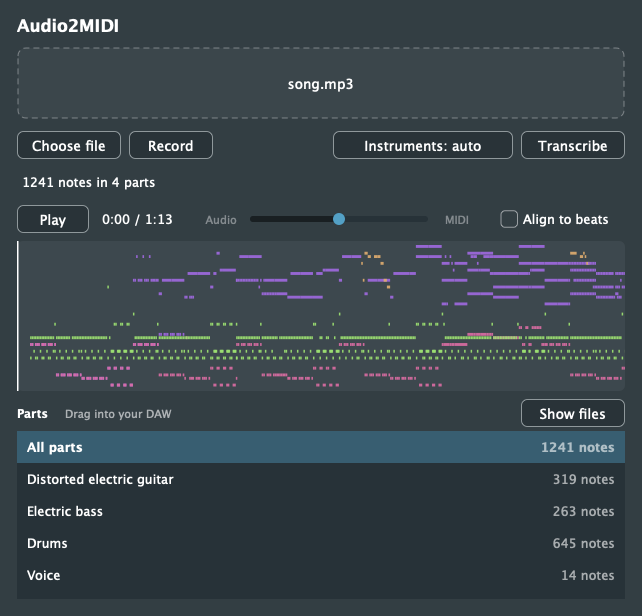
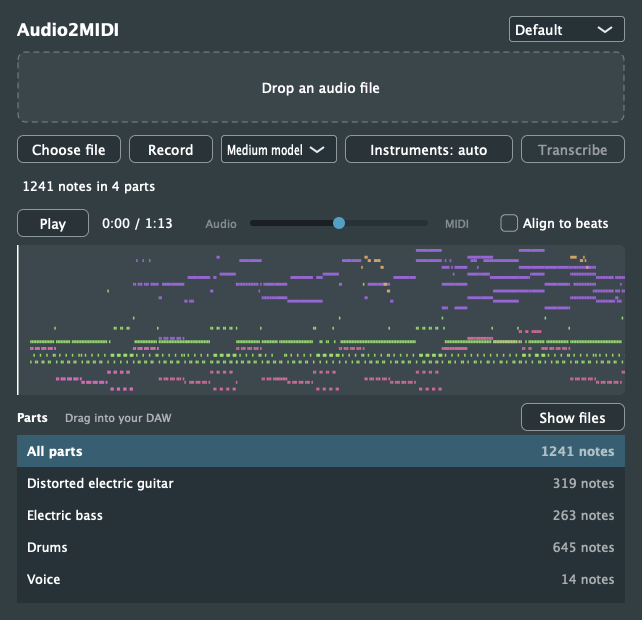
feat(ui): theme selector with Default and Graphite themes
Graphite is a near-black look with outlined rounded controls, card-style part rows and
pastel notes. The choice is a user preference, so it is stored once in
~/Library/Application Support/Audio2MIDI/Preferences.settings rather than per project.

diff --git a/src/PluginEditor.cpp b/src/PluginEditor.cpp
@@ -17,6 +17,8 @@ juce::String displayName (const juce::String& instrument)
     return spaced.substring (0, 1).toUpperCase() + spaced.substring (1);
 }
 
+const juce::StringArray themeNames { "Default", "Graphite" };
+
 bool isBusy (const a2m::Status& status)
 {
     return status.stage == a2m::Status::Stage::startingEngine || status.stage == a2m::Status::Stage::transcribing;
@@ -71,7 +73,8 @@ void PianoRoll::paint (juce::Graphics& g)
             const auto end = event->noteOffObject != nullptr ? event->noteOffObject->message.getTimeStamp() : start + 0.1;
             const auto x = secondsToX (start);
             // One colour per MIDI channel, which the engine assigns per instrument.
-            g.setColour (juce::Colour::fromHSV (std::fmod (0.58f + 0.17f * (float) note.getChannel(), 1.0f), 0.55f, 0.9f, 0.9f));
+            g.setColour (juce::Colour::fromHSV (std::fmod (0.58f + 0.17f * (float) note.getChannel(), 1.0f),
+                                                pastelNotes ? 0.38f : 0.55f, pastelNotes ? 0.92f : 0.9f, 0.9f));
             g.fillRect (x, area.getY() + rowHeight * (float) (high - note.getNoteNumber()),
                         juce::jmax (1.5f, secondsToX (end) - x), juce::jmax (1.0f, rowHeight - 0.5f));
         }
@@ -105,6 +108,35 @@ void PianoRoll::seekTo (float x)
     repaint();
 }
 
+GraphiteLookAndFeel::GraphiteLookAndFeel()
+    : juce::LookAndFeel_V4 ({ 0xff141414, 0xff1f1f1f, 0xff1c1c1c, 0xff353535, 0xfff2f2f2,
+                              0xffececec, 0xffffffff, 0xff2b2b2b, 0xfff2f2f2 })
+{
+    setColour (juce::TextButton::buttonColourId, juce::Colour (0xff1f1f1f));
+    setColour (juce::ComboBox::backgroundColourId, juce::Colour (0xff1f1f1f));
+    setColour (juce::ListBox::backgroundColourId, juce::Colour (0xff141414));
+    setColour (juce::TextEditor::highlightColourId, juce::Colour (0xff3d5f8a));
+    setColour (juce::Slider::trackColourId, juce::Colour (0xffececec));
+    setColour (juce::Slider::backgroundColourId, juce::Colour (0xff353535));
+    setColour (juce::ProgressBar::backgroundColourId, juce::Colour (0xff1f1f1f));
+    setColour (juce::ProgressBar::foregroundColourId, juce::Colour (0xff8db4e2));
+}
+
+void GraphiteLookAndFeel::drawButtonBackground (juce::Graphics& g, juce::Button& button, const juce::Colour& background,
+                                                bool highlighted, bool down)
+{
+    const auto bounds = button.getLocalBounds().toFloat().reduced (0.5f);
+    auto fill = background.withMultipliedAlpha (button.isEnabled() ? 1.0f : 0.5f);
+
+    if (down || highlighted)
+        fill = fill.brighter (down ? 0.25f : 0.12f);
+
+    g.setColour (fill);
+    g.fillRoundedRectangle (bounds, 8.0f);
+    g.setColour (findColour (juce::ComboBox::outlineColourId).withMultipliedAlpha (button.isEnabled() ? 1.0f : 0.5f));
+    g.drawRoundedRectangle (bounds, 8.0f, 1.0f);
+}
+
 Audio2MidiEditor::Audio2MidiEditor (Audio2MidiProcessor& p)
     : AudioProcessorEditor (p), audioProcessor (p)
 {
@@ -130,6 +162,15 @@ Audio2MidiEditor::Audio2MidiEditor (Audio2MidiProcessor& p)
     modelBox.onChange = [this] { audioProcessor.model = shownModel = modelBox.getSelectedItemIndex(); };
     addAndMakeVisible (modelBox);
 
+    themeBox.addItemList (themeNames, 1);
+    themeBox.setTitle ("Theme");
+    themeBox.onChange = [this]
+    {
+        settings.setValue ("theme", themeBox.getText());
+        applyTheme (themeBox.getSelectedItemIndex());
+    };
+    addAndMakeVisible (themeBox);
+
     alignButton.setToggleState (audioProcessor.alignToBeats, juce::dontSendNotification);
     alignButton.onClick = [this] { audioProcessor.alignToBeats = alignButton.getToggleState(); };
     addAndMakeVisible (alignButton);
@@ -154,12 +195,24 @@ Audio2MidiEditor::Audio2MidiEditor (Audio2MidiProcessor& p)
     addChildComponent (details);
 
     refreshInstrumentButton();
+    themeBox.setSelectedItemIndex (juce::jmax (0, themeNames.indexOf (settings.getValue ("theme"))), juce::dontSendNotification);
+    applyTheme (themeBox.getSelectedItemIndex());
     setSize (640, 620);
     timerCallback();
     startTimerHz (30);
 }
 
-Audio2MidiEditor::~Audio2MidiEditor() = default;
+Audio2MidiEditor::~Audio2MidiEditor() { setLookAndFeel (nullptr); }
+
+void Audio2MidiEditor::applyTheme (int index)
+{
+    const auto graphiteTheme = themeNames[index] == "Graphite";
+    setLookAndFeel (graphiteTheme ? &graphite : nullptr);
+    pianoRoll.pastelNotes = graphiteTheme;
+    // Graphite draws each part as a separate outlined row with a gap below it.
+    partsList.setRowHeight (graphiteTheme ? 33 : 32);
+    repaint();
+}
 
 void Audio2MidiEditor::paint (juce::Graphics& g)
 {
@@ -172,11 +225,12 @@ void Audio2MidiEditor::paint (juce::Graphics& g)
     g.drawText ("Audio2MIDI", titleArea, juce::Justification::centredLeft);
 
     const auto zone = dropZone.toFloat().reduced (1.0f);
+    const auto radius = isGraphite() ? 12.0f : 8.0f;
     g.setColour (text.withAlpha (dragOver ? 0.12f : 0.04f));
-    g.fillRoundedRectangle (zone, 8.0f);
+    g.fillRoundedRectangle (zone, radius);
 
     juce::Path border, dashed;
-    border.addRoundedRectangle (zone, 8.0f);
+    border.addRoundedRectangle (zone, radius);
     const float dashes[] = { 6.0f, 4.0f };
     juce::PathStrokeType (1.0f).createDashedStroke (dashed, border, dashes, 2);
     g.setColour (text.withAlpha (dragOver ? 0.9f : 0.35f));
@@ -207,6 +261,7 @@ void Audio2MidiEditor::resized()
 {
     auto area = getLocalBounds().reduced (16);
     titleArea = area.removeFromTop (28);
+    themeBox.setBounds (titleArea.removeFromRight (116).withSizeKeepingCentre (116, 26));
     area.removeFromTop (8);
     dropZone = area.removeFromTop (72);
     area.removeFromTop (12);
@@ -280,6 +335,22 @@ void Audio2MidiEditor::paintListBoxItem (int row, juce::Graphics& g, int width, 
 
     const auto& part = status.parts[(size_t) row];
     const auto text = getLookAndFeel().findColour (juce::Label::textColourId);
+
+    if (isGraphite())
+    {
+        const auto card = juce::Rectangle<float> ((float) width, (float) height - 4.0f).reduced (0.5f);
+        g.setColour (juce::Colour (0xff2b2b2b).withAlpha (selected ? 1.0f : 0.0f));
+        g.fillRoundedRectangle (card, 8.0f);
+        g.setColour (findColour (juce::ComboBox::outlineColourId).withAlpha (selected ? 0.0f : 1.0f));
+        g.drawRoundedRectangle (card, 8.0f, 1.0f);
+
+        juce::AttributedString label;
+        label.append (part.name + " ", juce::FontOptions (14.0f), text);
+        label.append ("(" + juce::String (part.notes) + " notes)", juce::FontOptions (12.0f), text.withAlpha (0.5f));
+        label.setJustification (juce::Justification::centredLeft);
+        label.draw (g, card.reduced (14.0f, 0.0f));
+        return;
+    }
 
     if (selected)
         g.fillAll (getLookAndFeel().findColour (juce::TextEditor::highlightColourId));

diff --git a/src/PluginEditor.h b/src/PluginEditor.h
@@ -15,10 +15,20 @@ public:
     void mouseDrag (const juce::MouseEvent&) override;
     bool keyPressed (const juce::KeyPress&) override;
 
+    bool pastelNotes = false;
+
 private:
     void seekTo (float x);
 
     Audio2MidiProcessor& processor;
+};
+
+/** Near-black panels, outlined rounded controls and pastel notes. */
+class GraphiteLookAndFeel final : public juce::LookAndFeel_V4
+{
+public:
+    GraphiteLookAndFeel();
+    void drawButtonBackground (juce::Graphics&, juce::Button&, const juce::Colour&, bool highlighted, bool down) override;
 };
 
 class Audio2MidiEditor final : public juce::AudioProcessorEditor,
@@ -51,8 +61,19 @@ private:
     void showInstrumentMenu();
     void refreshInstrumentButton();
     void previewSelectedPart();
+    void applyTheme (int index);
+    bool isGraphite() const { return &getLookAndFeel() == &graphite; }
 
     Audio2MidiProcessor& audioProcessor;
+    GraphiteLookAndFeel graphite; // declared before the components that use it
+    juce::PropertiesFile settings { [] {
+        juce::PropertiesFile::Options options;
+        options.applicationName = "Preferences";
+        options.folderName = "Audio2MIDI";
+        options.filenameSuffix = ".settings";
+        options.osxLibrarySubFolder = "Application Support";
+        return options;
+    }() };
     a2m::Status status;
     juce::String notice;
     bool dragOver = false, draggingPart = false;
@@ -62,7 +83,7 @@ private:
     juce::TextButton chooseButton { "Choose file" }, recordButton { "Record" },
                      instrumentsButton, transcribeButton { "Transcribe" }, revealButton { "Show files" },
                      playButton { "Play" };
-    juce::ComboBox modelBox;
+    juce::ComboBox modelBox, themeBox;
     int shownModel = -1; // the processor's model as modelBox last showed it
     juce::ToggleButton alignButton { "Align to beats" };
     juce::Slider mixSlider { juce::Slider::LinearHorizontal, juce::Slider::NoTextBox };

diff --git a/README.md b/README.md
@@ -8,7 +8,10 @@ Audio-to-MIDI plugin (VST3, AU, Standalone). Put it on an audio track, drop in a
 
 Transcription runs locally with [MuScriptor](https://github.com/muscriptor/muscriptor) by Kyutai and Mirelo. This project is not affiliated with either.
 
-<p align="center"><img src="assets/preview.png" alt="Audio2MIDI plugin with a transcribed song in the piano roll" width="520"></p>
+<p align="center">
+  <img src="assets/preview.png" alt="Audio2MIDI with the Default theme" width="400">
+  <img src="assets/preview-graphite.png" alt="Audio2MIDI with the Graphite theme" width="400">
+</p>
 
 ## Audio2MIDI vs. Mirelo
 
@@ -75,6 +78,7 @@ JUCE 9.0.5 is fetched by CMake. The VST3 and AU are copied to `~/Library/Audio/P
 5. Select a part and press **Play** to hear it. The preview plays through the track: the slider mixes the original audio with the MIDI, played by macOS's built-in General MIDI sounds. Click the piano roll to jump. Some DAWs, such as Logic Pro, only run a track's plugins while the transport plays; the plugin tells you when that is the case.
 6. Turn on **Align to beats** to snap every note to the detected beat grid. Leave it off to keep the performance as played.
 7. Drag **All parts** or a single instrument into your DAW. **Show files** opens the MIDI files.
+8. Pick a theme in the top-right menu: **Default** or **Graphite**, a near-black look with outlined controls. The choice applies to every instance.
 
 The MIDI files carry the detected tempo and meter, so they land on the grid. The result is saved with your project and comes back when you reopen it.
 
@@ -84,7 +88,7 @@ The MIDI files carry the detected tempo and meter, so they land on the grid. The
 ctest --test-dir build                                    # unit tests
 build/Audio2MidiTests_artefacts/Release/Audio2MidiTests --e2e song.mp3 [--model small] [drums electric_bass]
 pluginval --strictness-level 10 --validate ~/Library/Audio/Plug-Ins/VST3/Audio2MIDI.vst3
-packaging/macos/build-pkg.sh build/Audio2Midi_artefacts/Release 0.3.0 Audio2MIDI-macOS.pkg
+packaging/macos/build-pkg.sh build/Audio2Midi_artefacts/Release 0.4.0 Audio2MIDI-macOS.pkg
 ```
 
 `--e2e` runs a real transcription through the same engine code the plugin uses. It starts and stops the engine when none is running.
